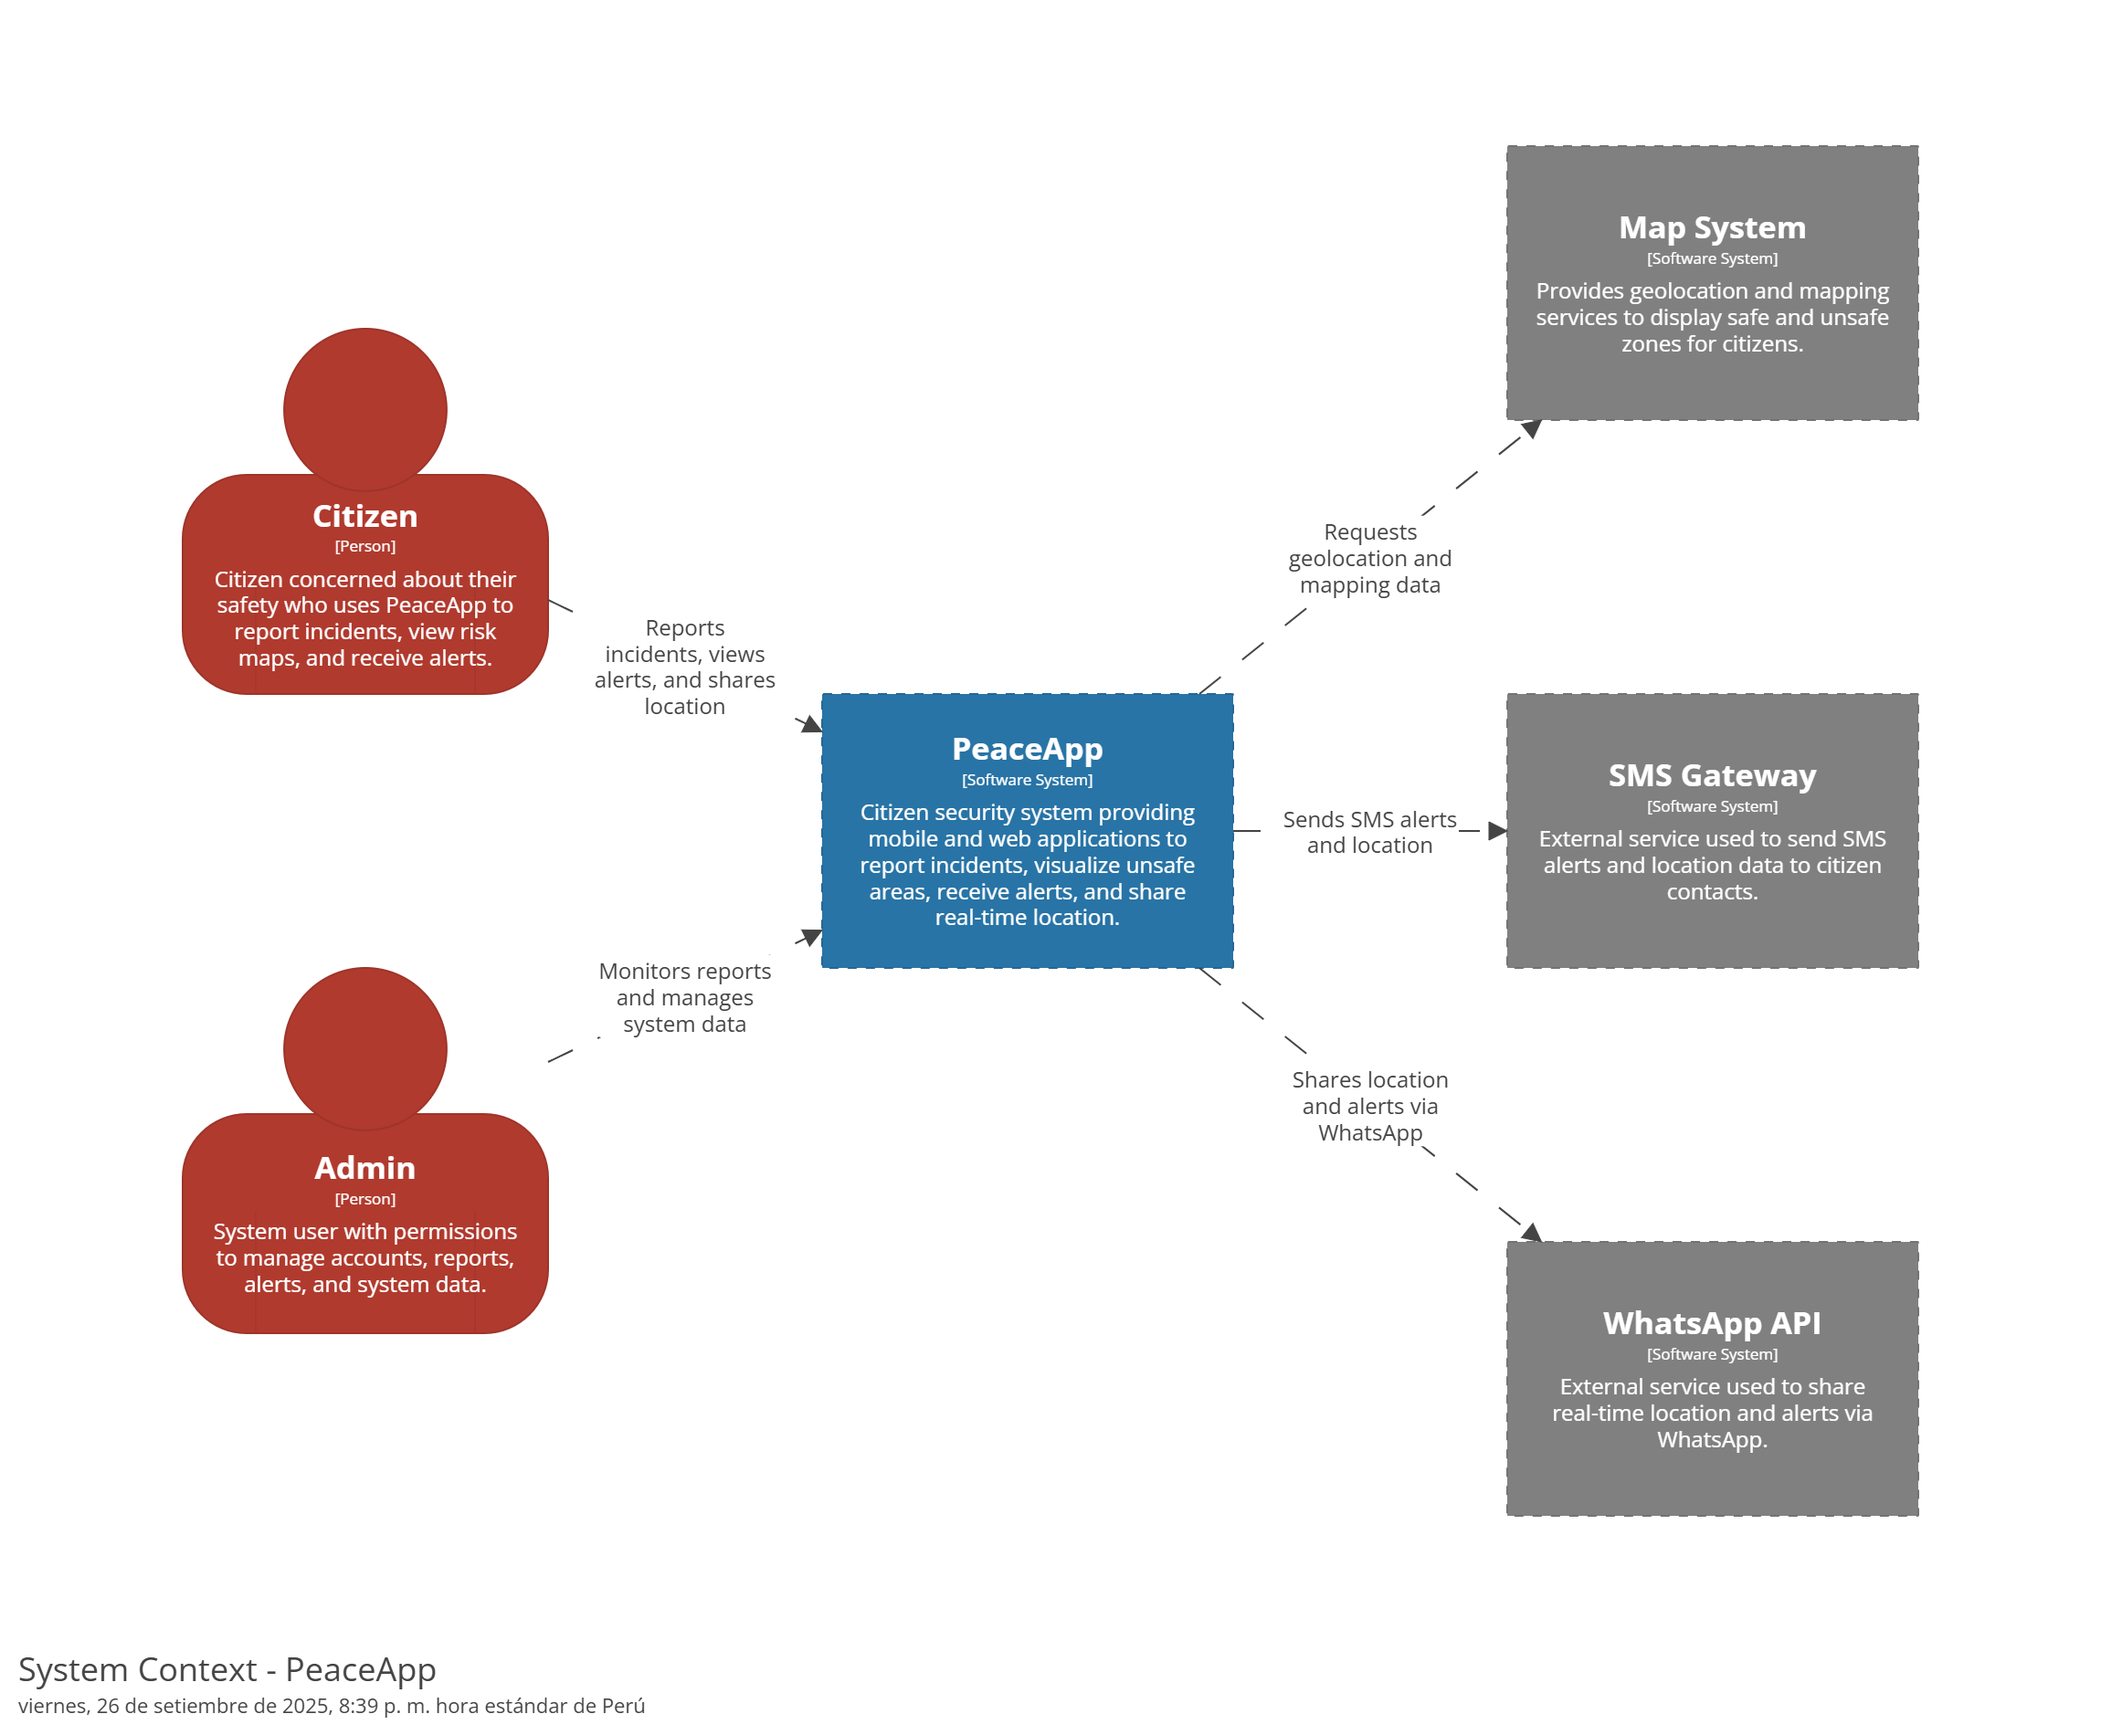
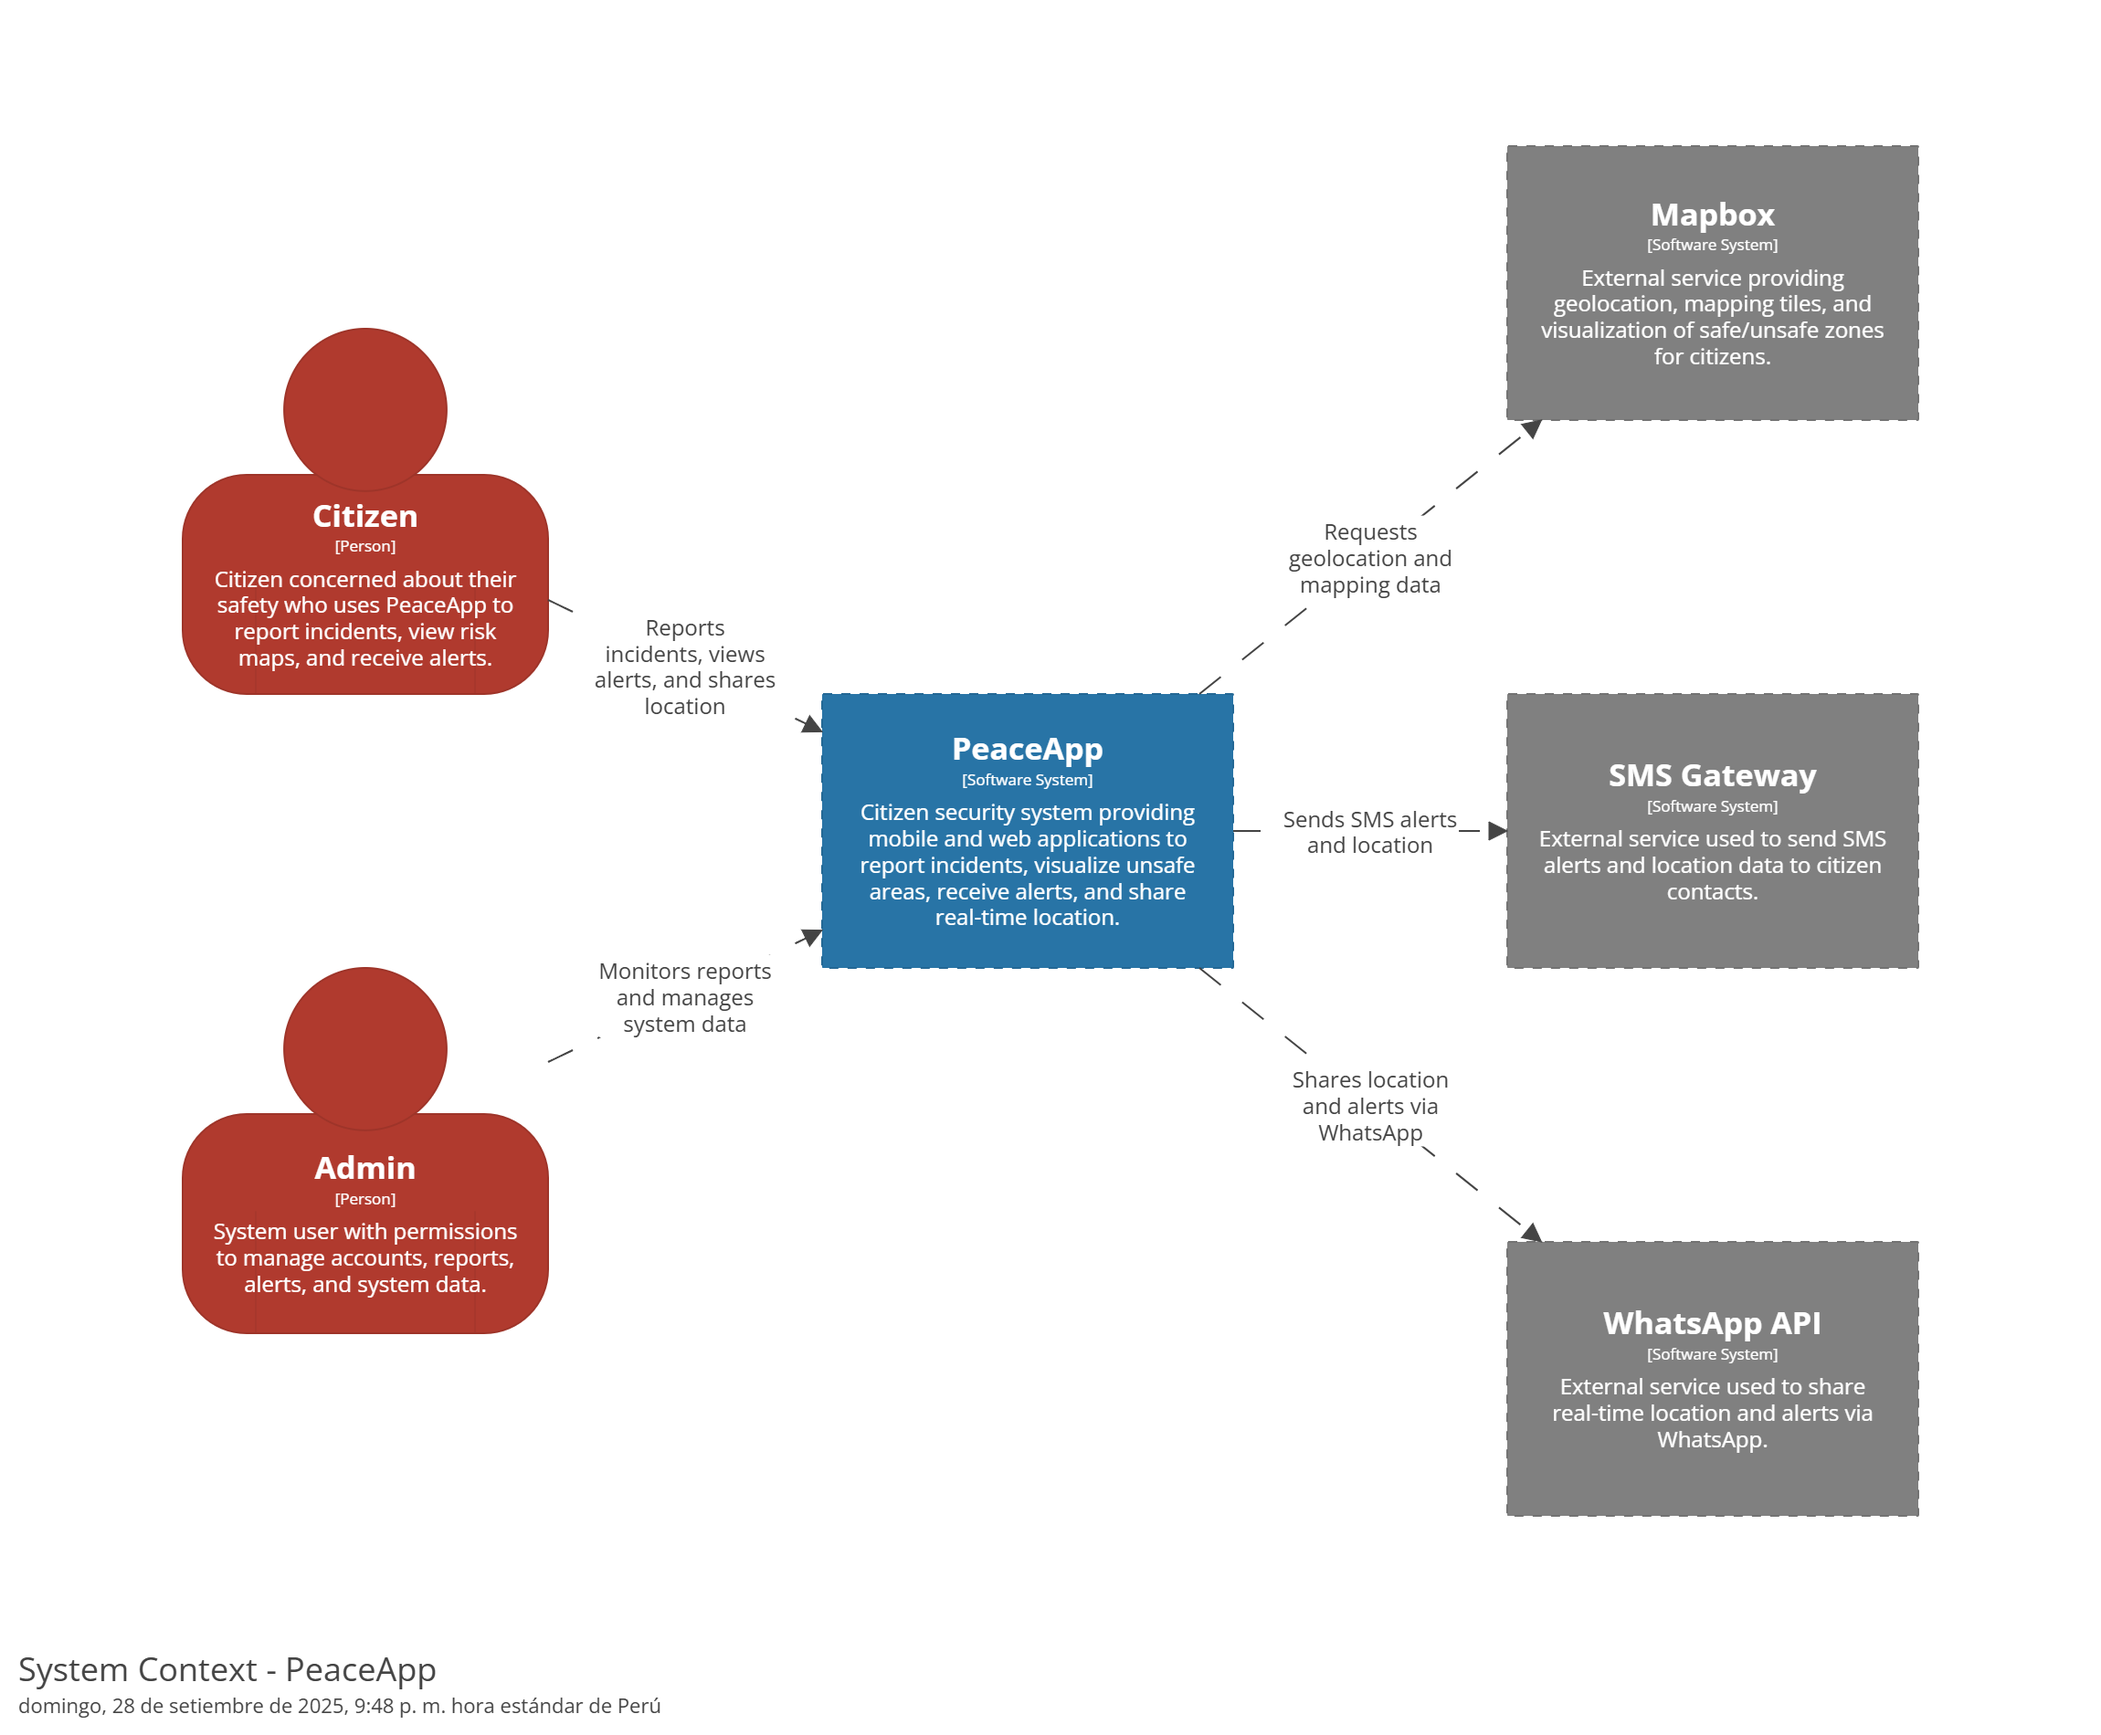
docs: add c4 model diagrams, diagram class and kanban board

Changed region(s): [[0.7409, 0.1242, 0.8952, 0.2174], [0.0, 0.9626, 0.3087, 0.9937]]

diff --git a/README.md b/README.md
@@ -505,4 +505,59 @@ En esta sección se representan visualmente los componentes del sistema a travé
 
 ![](assets/structurizr-83580-Containers.png)
 
-#### 4.3.X.7. Analysis of Current Design and Review Iteration Goal (Kanban Board)
+##### IAM Bounded Context
+
+![](assets/structurizr-84687-iam_bounded_context.png)
+
+##### Profile Bounded Context
+
+![](assets/structurizr-84687-profiles_bounded_context.png)
+
+##### Report Bounded Context
+
+![](assets/structurizr-84687-reports_bounded_context.png)
+
+##### Alert Bounded Context
+
+![](assets/structurizr-84687-alerts_bounded_context.png)
+
+##### Location Bounded Context
+
+![](assets/structurizr-84687-locations_bounded_context.png)
+
+##### Diagrama de Clases
+
+![](assets/ClassDiagram.png)
+
+## Design Decisions – PeaceApp
+
+| Decisión | Justificación |
+|----------|---------------|
+| **Arquitectura de Microservicios** | Permite escalar servicios críticos como IAM, Reports, Alerts, Profiles o Locations de manera independiente. Esto favorece la mantenibilidad, la resiliencia ante fallos y la evolución del sistema sin afectar a otros módulos. |
+| **API Gateway centralizado** | Gestiona la autenticación, autorización y control de tráfico. Desacopla el frontend (SPA y Mobile App) de los distintos microservicios, aplicando seguridad IAM de forma uniforme. |
+| **Uso de MySQL en todos los microservicios** | Base de datos robusta, relacional y ampliamente soportada. Garantiza consistencia transaccional para credenciales, perfiles, reportes, alertas y datos de ubicación, simplificando la administración al unificar la tecnología de persistencia. |
+| **Integración con SMS Gateway y WhatsApp API** | Garantiza la entrega oportuna de notificaciones y localizaciones a los ciudadanos a través de canales de comunicación directos y confiables. |
+| **Integración con Mapbox** | Permite enriquecer la experiencia de los usuarios mostrando mapas interactivos, geolocalización en tiempo real y visualización de zonas seguras/inseguras. |
+| **Frontend con SPA (Vue+Vite) y Mobile App (Kotlin)** | Ofrece interfaces modernas, rápidas y adaptadas tanto para administradores como para ciudadanos, asegurando accesibilidad multiplataforma. |
+| **DDD (Domain Driven Design)** | La separación en capas (Interface, Application, Domain, Infrastructure) clarifica responsabilidades y facilita la evolución del dominio en cada bounded context. |
+
+
+#### 4.3.1.7. Analysis of Current Design and Review Iteration Goal (Kanban Board)
+
+Esta sección analiza el diseño arquitectónico obtenido en relación a los drivers de calidad planteados para la iteración: usabilidad, confiabilidad, mantenibilidad y eficiencia.
+Se evalúa el grado de cumplimiento de los objetivos definidos, identificando fortalezas y posibles áreas de mejora.
+Finalmente, se presenta un Kanban Board que muestra el avance y estado de las actividades arquitectónicas priorizadas en esta fase, fomentando la transparencia y la gestión ágil del proyecto.
+
+Análisis del Diseño Actual
+
+- Usabilidad: Se garantiza mediante interfaces web y móviles intuitivas, navegación clara en el mapa de zonas de riesgo, y formularios simples para reportar incidentes.
+
+- Confiabilidad: El uso de una base de datos transaccional en MySQL y la integración con servicios externos (SMS, WhatsApp, Mapbox) aseguran la entrega oportuna de alertas críticas.
+
+- Mantenibilidad: La arquitectura basada en microservicios desacoplados (IAM, Profiles, Reports, Alerts, Location) facilita modificaciones y evolución independiente de cada módulo.
+
+- Eficiencia: El API Gateway centralizado optimiza el ruteo de peticiones, mientras que la comunicación asincrónica entre microservicios reduce la latencia y mejora la respuesta en tiempo real.
+
+El diseño actual cubre satisfactoriamente los drivers seleccionados en esta iteración, cumpliendo los objetivos propuestos.
+
+![](assets/Kanban.png)
